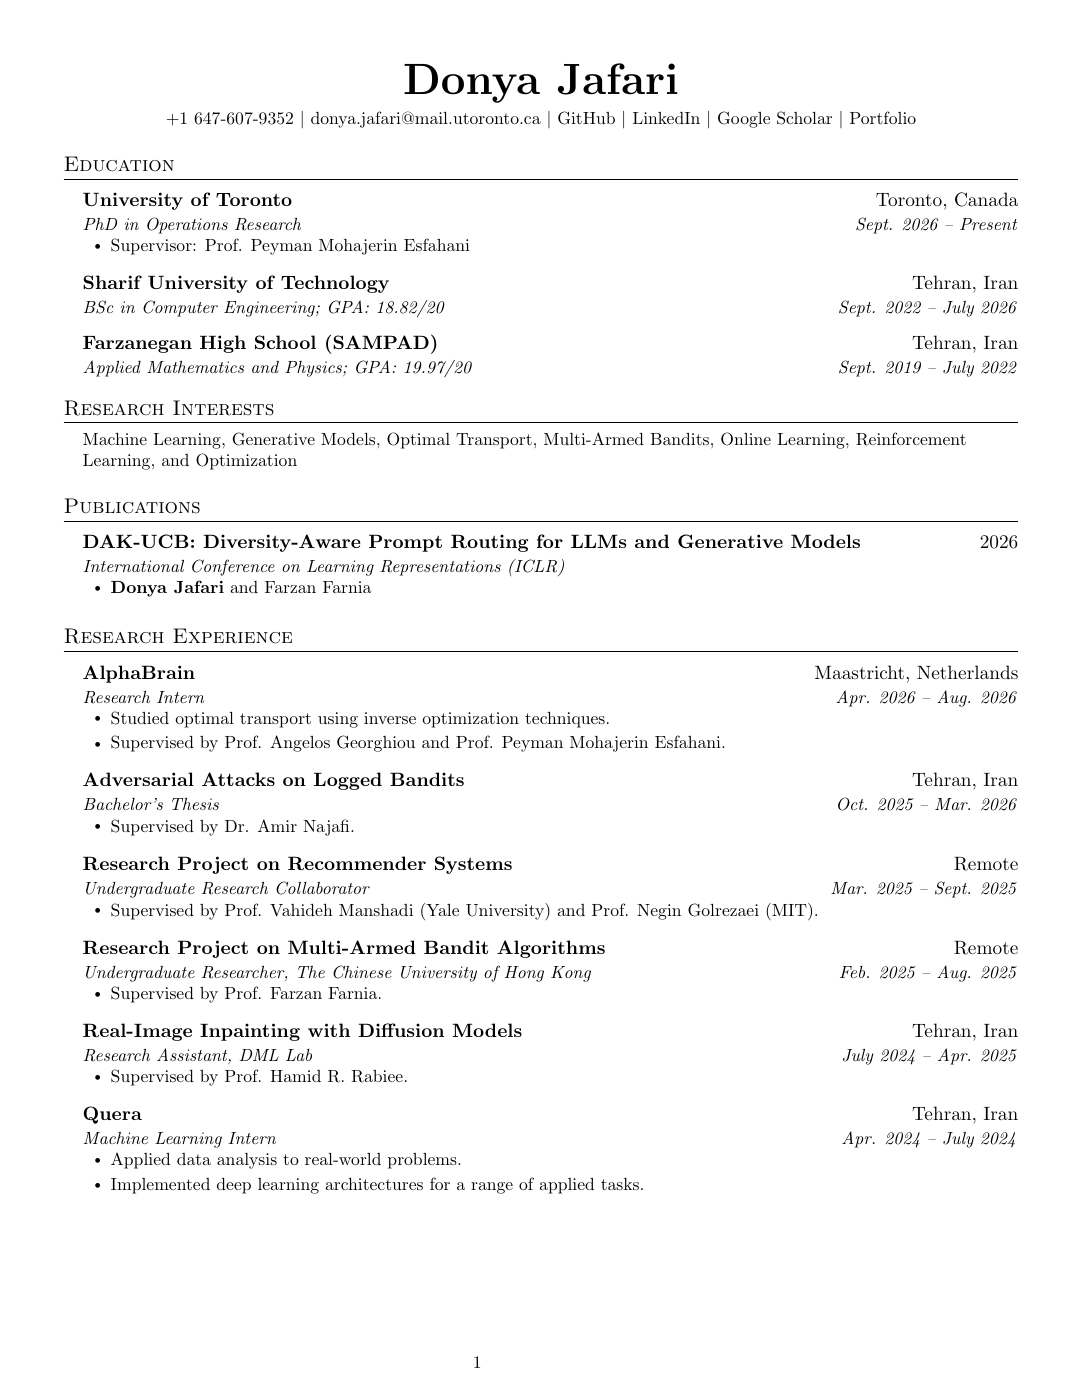
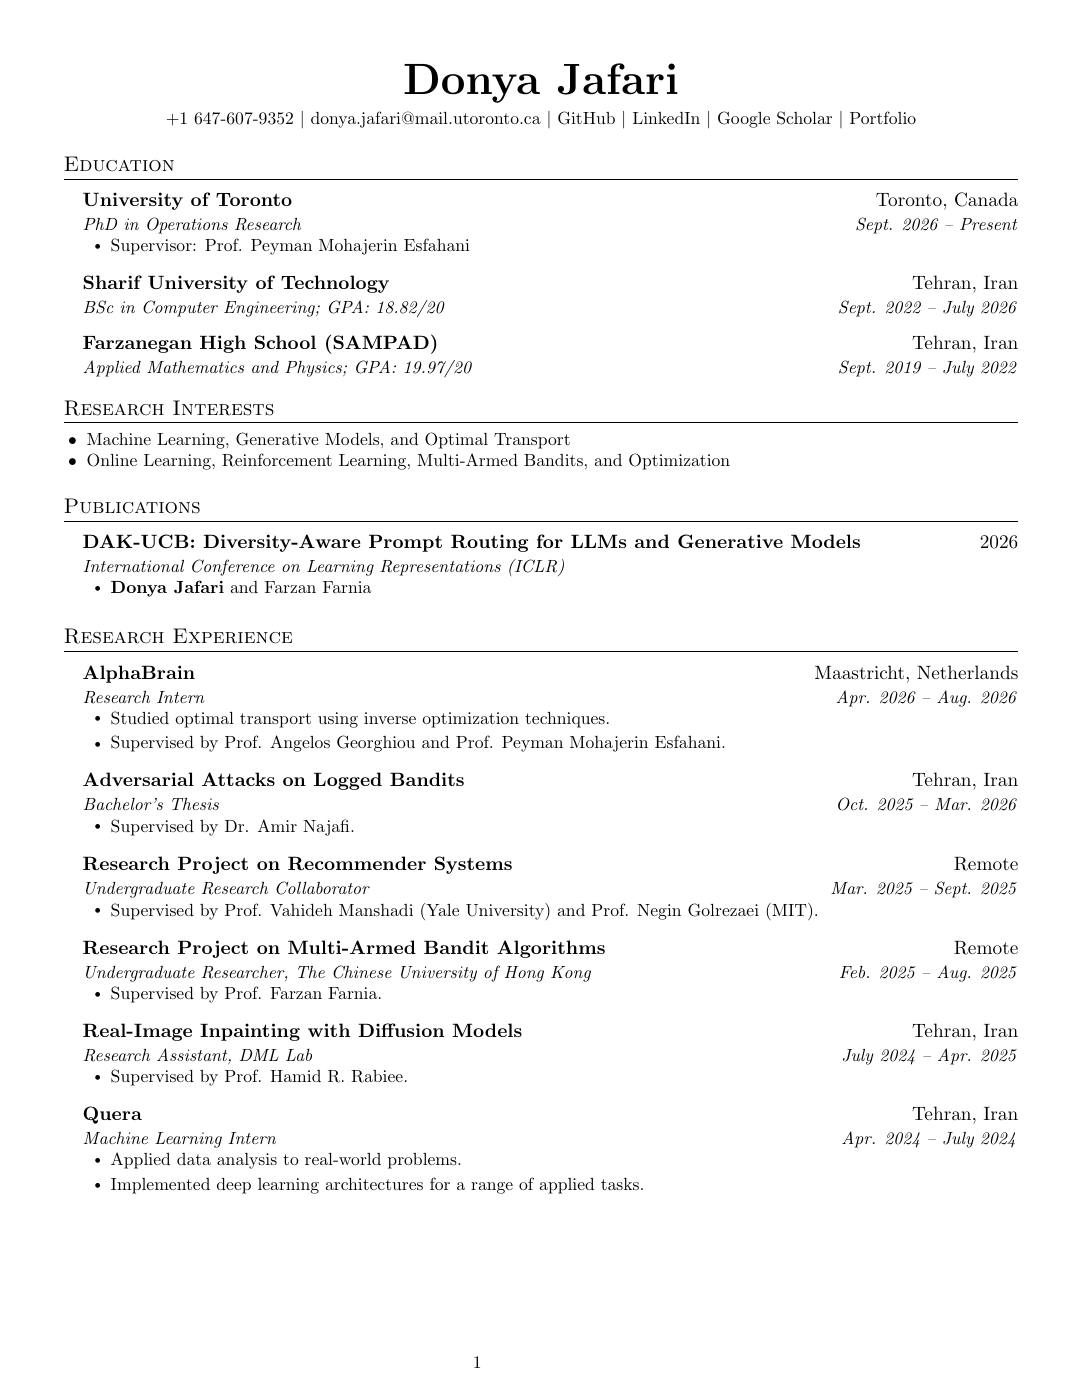
Split CV research interests into two groups

Changed region(s): [[0.061, 0.3071, 0.7015, 0.3379], [0.793, 0.3071, 0.854, 0.3379], [0.732, 0.3071, 0.7625, 0.3379]]

diff --git a/cv.html b/cv.html
@@ -21,8 +21,8 @@
     </nav>
   </header>
   <main id="main" class="container" tabindex="-1"><header class="page-heading"><p class="eyebrow">Background &amp; experience</p><h1>Curriculum vitae</h1><p>Education, research, publications, teaching, and coursework.</p></header>
-<section class="cv-summary" aria-label="CV download"><div><h2>Donya Jafari</h2><p>PhD student · University of Toronto</p><p class="document-meta">Updated September 2026 · PDF · 2 pages</p></div><div class="cv-actions"><a class="button" href="Donya_Jafari_CV.pdf?v=447765f10a7c" download>Download CV <span aria-hidden="true">↓</span></a><a class="text-link" href="Donya_Jafari_CV.pdf?v=447765f10a7c">Open PDF <span aria-hidden="true">↗</span></a></div></section>
-<figure class="cv-preview"><a href="Donya_Jafari_CV.pdf?v=447765f10a7c" aria-label="Open the complete two-page CV"><img src="assets/cv-preview.png?v=4b495e693bca" width="1082" height="1400" alt="First-page preview of Donya Jafari’s academic CV. Open the PDF to read the complete document." loading="lazy"></a><figcaption>Preview · Page 1 of 2. <a href="Donya_Jafari_CV.pdf?v=447765f10a7c">Read the full CV</a>.</figcaption></figure></main>
+<section class="cv-summary" aria-label="CV download"><div><h2>Donya Jafari</h2><p>PhD student · University of Toronto</p><p class="document-meta">Updated September 2026 · PDF · 2 pages</p></div><div class="cv-actions"><a class="button" href="Donya_Jafari_CV.pdf?v=de3bde5b62d5" download>Download CV <span aria-hidden="true">↓</span></a><a class="text-link" href="Donya_Jafari_CV.pdf?v=de3bde5b62d5">Open PDF <span aria-hidden="true">↗</span></a></div></section>
+<figure class="cv-preview"><a href="Donya_Jafari_CV.pdf?v=de3bde5b62d5" aria-label="Open the complete two-page CV"><img src="assets/cv-preview.png?v=d272e48e4a34" width="1082" height="1400" alt="First-page preview of Donya Jafari’s academic CV. Open the PDF to read the complete document." loading="lazy"></a><figcaption>Preview · Page 1 of 2. <a href="Donya_Jafari_CV.pdf?v=de3bde5b62d5">Read the full CV</a>.</figcaption></figure></main>
   <footer class="site-footer container"><span>© 2026 Donya Jafari</span><a href="mailto:donya.jafari@mail.utoronto.ca">Get in touch <span aria-hidden="true">↗</span></a></footer>
 </body>
 </html>

diff --git a/about.html b/about.html
@@ -26,10 +26,10 @@
     <p class="eyebrow">University of Toronto · Toronto, Canada</p>
     <h1>Donya Jafari</h1>
     <p class="role">PhD student in Operations Research</p>
-    <p>I study machine learning, generative models, optimal transport, and sequential decision-making, with interests in multi-armed bandits, online learning, reinforcement learning, and optimization.</p>
+    <p>I study machine learning, generative models, and optimal transport, with interests in online learning, reinforcement learning, multi-armed bandits, and optimization.</p>
     <p>I am a PhD student at the University of Toronto, supervised by <a href="https://scholar.google.com/citations?user=ZTan-7YAAAAJ">Prof. Peyman Mohajerin Esfahani</a>. I received my BSc in Computer Engineering from Sharif University of Technology in July 2026.</p>
     <div class="social-links"><a href="mailto:donya.jafari@mail.utoronto.ca">Email</a><a href="https://scholar.google.com/citations?user=WCK7U_UAAAAJ&amp;hl=en">Google Scholar</a><a href="https://github.com/Donya-Jafari">GitHub</a><a href="https://linkedin.com/in/donyajafari">LinkedIn</a></div>
-    <a class="text-link" href="Donya_Jafari_CV.pdf?v=447765f10a7c">View my CV <span aria-hidden="true">↗</span></a>
+    <a class="text-link" href="Donya_Jafari_CV.pdf?v=de3bde5b62d5">View my CV <span aria-hidden="true">↗</span></a>
   </div>
   <figure class="portrait"><img src="image.png" alt="Portrait of Donya Jafari" width="260" height="300"><figcaption>Machine learning &amp; optimization</figcaption></figure>
 </section>

diff --git a/index.html b/index.html
@@ -26,10 +26,10 @@
     <p class="eyebrow">University of Toronto · Toronto, Canada</p>
     <h1>Donya Jafari</h1>
     <p class="role">PhD student in Operations Research</p>
-    <p>I study machine learning, generative models, optimal transport, and sequential decision-making, with interests in multi-armed bandits, online learning, reinforcement learning, and optimization.</p>
+    <p>I study machine learning, generative models, and optimal transport, with interests in online learning, reinforcement learning, multi-armed bandits, and optimization.</p>
     <p>I am a PhD student at the University of Toronto, supervised by <a href="https://scholar.google.com/citations?user=ZTan-7YAAAAJ">Prof. Peyman Mohajerin Esfahani</a>. I received my BSc in Computer Engineering from Sharif University of Technology in July 2026.</p>
     <div class="social-links"><a href="mailto:donya.jafari@mail.utoronto.ca">Email</a><a href="https://scholar.google.com/citations?user=WCK7U_UAAAAJ&amp;hl=en">Google Scholar</a><a href="https://github.com/Donya-Jafari">GitHub</a><a href="https://linkedin.com/in/donyajafari">LinkedIn</a></div>
-    <a class="text-link" href="Donya_Jafari_CV.pdf?v=447765f10a7c">View my CV <span aria-hidden="true">↗</span></a>
+    <a class="text-link" href="Donya_Jafari_CV.pdf?v=de3bde5b62d5">View my CV <span aria-hidden="true">↗</span></a>
   </div>
   <figure class="portrait"><img src="image.png" alt="Portrait of Donya Jafari" width="260" height="300"><figcaption>Machine learning &amp; optimization</figcaption></figure>
 </section>

diff --git a/Donya_Jafari_Academic_CV.tex b/Donya_Jafari_Academic_CV.tex
@@ -107,8 +107,10 @@
 
 %-----------RESEARCH INTERESTS-----------
 \section{Research Interests}
-\begin{itemize}[leftmargin=0.15in,label={},itemsep=6pt,parsep=0pt,topsep=4pt]
-  \small\item{Machine Learning, Generative Models, Optimal Transport, Multi-Armed Bandits, Online Learning, Reinforcement Learning, and Optimization}
+\begin{itemize}[leftmargin=0.18in,itemsep=0pt,parsep=0pt,topsep=4pt]
+  \small
+  \item Machine Learning, Generative Models, and Optimal Transport
+  \item Online Learning, Reinforcement Learning, Multi-Armed Bandits, and Optimization
 \end{itemize}
 
 %-----------PUBLICATIONS-----------
